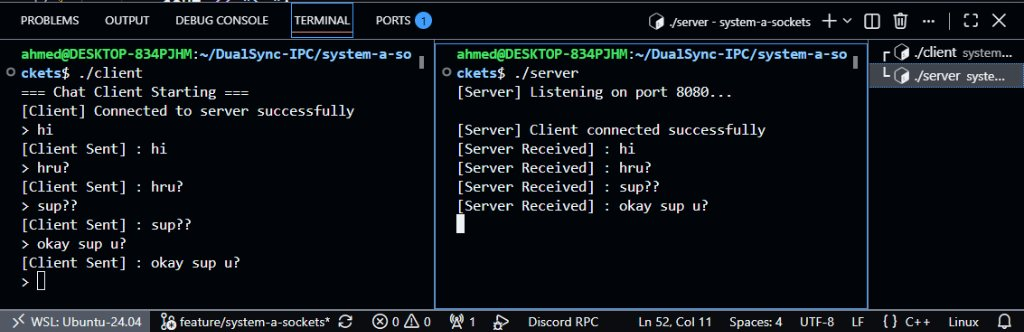
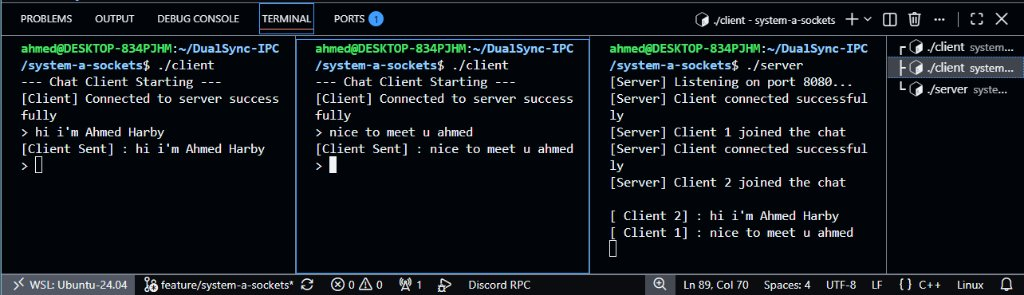
feat(sockets): implement multi-threaded concurrent clients and update demo screenshot

Changed region(s): [[0.0, 0.0, 1.0, 1.0]]

diff --git a/system-a-sockets/server.cpp b/system-a-sockets/server.cpp
@@ -5,6 +5,8 @@
 #include <sys/socket.h>
 #include <netinet/in.h>
 #include "common.h"
+#include <thread>
+
 using namespace std;
 
 
@@ -58,7 +60,7 @@ int accept_client(int server_fd) {
 }
 
 // Read incoming message and print it out
-void handle_client(int client_fd) {
+void handle_client(int client_fd, int client_id) {
     char buffer[BUFFER_SIZE] = {0};
     while (true) {
         // Clear buffer before read
@@ -66,21 +68,29 @@ void handle_client(int client_fd) {
         int bytes_read = read(client_fd, buffer, BUFFER_SIZE - 1);
         // error occurred
         if (bytes_read <= 0) {
-            cout << "[Server] Client disconnected" << endl;
+            cout << "[Server] Client " << client_id << " disconnected" << endl;
             break;
         }
-        cout << "[Server Received] : " << buffer << endl;
+        cout << "[ Client " << client_id << "] : " << buffer << endl;
     }
-    
+
     close(client_fd);
 }
 
 int main() {
 
     int server_fd = start_server(PORT);
-    int client_fd = accept_client(server_fd);
-    handle_client(client_fd);
+    int client_counter = 0;
 
+    while(true){
+    int client_fd = accept_client(server_fd);
+    client_counter++;
+
+    cout << "[Server] Client " << client_counter << " joined the chat" << endl;
+
+    thread(handle_client, client_fd, client_counter).detach();
+    }
+    
     close(server_fd);
     return 0;
 }

diff --git a/system-a-sockets/client.cpp b/system-a-sockets/client.cpp
@@ -25,7 +25,9 @@ int connect_to_server(const char* server_ip, int port) {
         exit(1);
     }
 
-        if (connect(sock_fd, (struct sockaddr*)&serv_addr, sizeof(serv_addr)) < 0) {
+
+    int status = connect(sock_fd, (struct sockaddr*)&serv_addr, sizeof(serv_addr));
+    if (status < 0) {
         cerr << "[Client] Connection failed" << endl;
         exit(1);
     }

diff --git a/README.md b/README.md
@@ -24,8 +24,8 @@ DualSync-IPC is designed to explore and compare two fundamental Inter-Process Co
 
 ## 📸 Live Demonstrations
 
-### System A: Interactive TCP Socket Communication (Terminal)
-Real-time continuous message exchange between the TCP Client and Server processes running on `127.0.0.1:8080`:
+### System A: Multi-Threaded TCP Socket Chat (Terminal)
+Real-time concurrent message exchange between multiple TCP clients (Client 1, Client 2) and the multi-threaded server running on `127.0.0.1:8080`:
 
 <p align="center">
   <img src="docs/screenshots/socket_chat_demo.jpg" alt="DualSync System A Terminal Sockets Demo" width="95%" />
